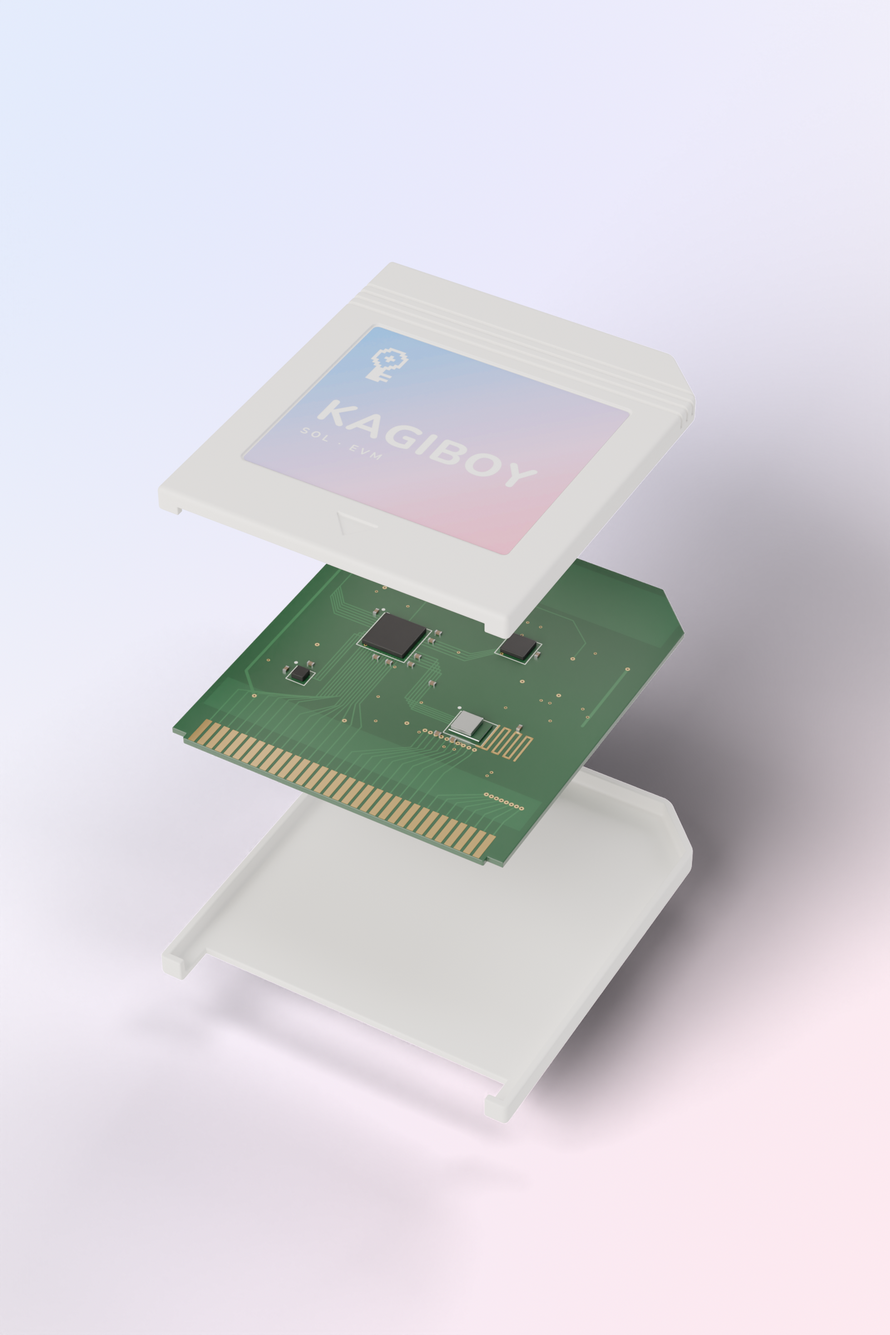
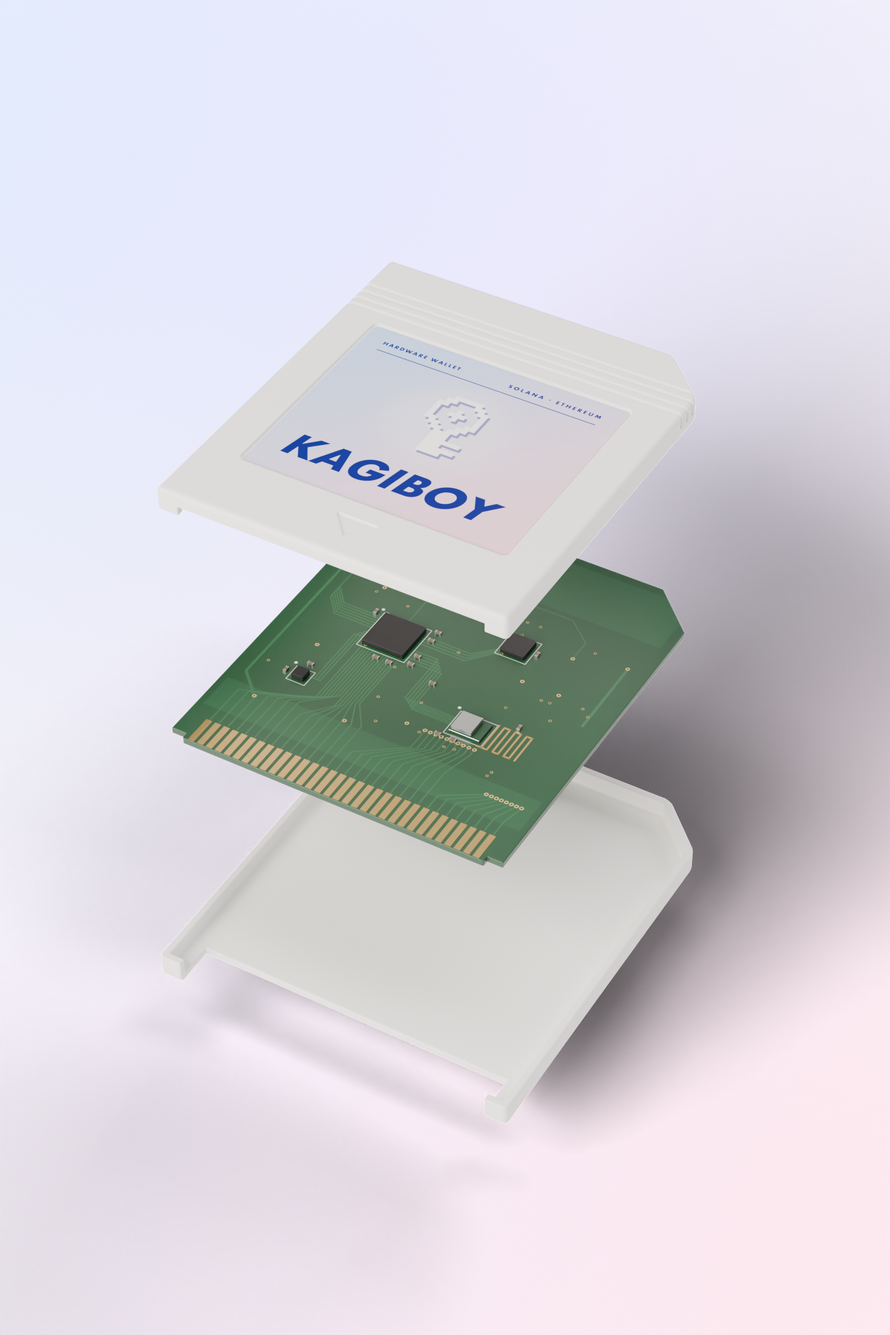
Fresh renders (prints, new label, soft LCD), product share card, A/B keys, no stale-image flash
Renders: render.py maps screen captures to the site's soft LCD palette,
gentler label grading. Landing/demo fade the live model in; the render
shows only as a fallback. OG card: assets/og (product + wordmark), short
non-repeating title/description. Demo: A and B keys work alongside X/Z.

Claude-Session: https://claude.ai/code/session_01K3DS9Lp5DvbMPN1T6z91y9

Changed region(s): [[0.3125, 0.25, 0.5625, 0.4062]]

diff --git a/assets/og/og.html b/assets/og/og.html
@@ -1,0 +1,38 @@
+<!doctype html>
+<html>
+<head>
+<meta charset="utf-8" />
+<link rel="preconnect" href="https://fonts.googleapis.com" />
+<link href="https://fonts.googleapis.com/css2?family=Funnel+Display:wght@500;650&family=Funnel+Sans:wght@400;500&display=block" rel="stylesheet" />
+<style>
+  html, body { margin: 0; }
+  .card {
+    position: relative; width: 1200px; height: 630px; overflow: hidden;
+    background:
+      radial-gradient(520px 420px at 14% 18%, rgba(207, 226, 255, 0.95), transparent 70%),
+      radial-gradient(560px 460px at 92% 96%, rgba(255, 220, 232, 0.95), transparent 70%),
+      radial-gradient(380px 300px at 58% 50%, rgba(230, 224, 255, 0.55), transparent 72%),
+      #fbfaf8;
+    font-family: "Funnel Sans", system-ui, sans-serif; color: #1f2330;
+  }
+  .copy { position: absolute; left: 88px; top: 50%; transform: translateY(-50%); }
+  .word { font: 650 92px/0.95 "Funnel Display", sans-serif; letter-spacing: -0.045em; margin: 0; }
+  .line { margin: 22px 0 0; font-size: 27px; color: #5a5f73; letter-spacing: -0.01em; }
+  .chains { margin: 34px 0 0; font-size: 15px; letter-spacing: 0.22em; color: #8a8fa3; text-transform: uppercase; }
+  /* the studio render (backdrop baked in), its left edge feathered into the card */
+  .device { position: absolute; left: 400px; top: 18px; width: 1040px; height: auto;
+    -webkit-mask-image: linear-gradient(90deg, transparent 0, #000 22%); mask-image: linear-gradient(90deg, transparent 0, #000 22%); }
+  .copy { z-index: 1; }
+</style>
+</head>
+<body>
+  <div class="card">
+    <div class="copy">
+      <p class="word">kagiboy</p>
+      <p class="line">Your keys, in a cartridge.</p>
+      <p class="chains">Solana &nbsp;·&nbsp; Ethereum</p>
+    </div>
+    <img class="device" src="device.png" />
+  </div>
+</body>
+</html>

diff --git a/web/index.html b/web/index.html
@@ -4,9 +4,9 @@
     <meta charset="UTF-8" />
     <meta name="viewport" content="width=device-width, initial-scale=1.0, viewport-fit=cover" />
     <title>kagiboy</title>
-    <meta name="description" content="A hardware wallet for the original Game Boy. Solana and EVM." />
-    <meta property="og:title" content="kagiboy: your crypto keys, in a Game Boy cartridge" />
-    <meta property="og:description" content="A secure chip in the cartridge holds your keys. Approve every Solana and EVM transaction on the Game Boy's own screen." />
+    <meta name="description" content="The hardware wallet that plugs into a Game Boy. Solana and Ethereum." />
+    <meta property="og:title" content="kagiboy" />
+    <meta property="og:description" content="The hardware wallet that plugs into a Game Boy." />
     <meta property="og:image" content="https://kagiboy.vercel.app/og.png" />
     <meta property="og:url" content="https://kagiboy.vercel.app/" />
     <meta name="twitter:card" content="summary_large_image" />

diff --git a/web/src/demo/GameBoyShell.tsx b/web/src/demo/GameBoyShell.tsx
@@ -10,8 +10,12 @@ const KEYBOARD: Record<string, Key> = {
   ArrowRight: "RIGHT",
   x: "A",
   X: "A",
+  a: "A",
+  A: "A",
   z: "B",
   Z: "B",
+  b: "B",
+  B: "B",
   Enter: "START",
   Shift: "SELECT",
   Backspace: "SELECT",
@@ -245,7 +249,7 @@ export function GameBoyShell({ active = true }: { active?: boolean }) {
         )}
       </div>
       <p className="keys">
-        Keys: arrows · <kbd>X</kbd> A · <kbd>Z</kbd> B · <kbd>Enter</kbd> Start · <kbd>Shift</kbd> Select
+        Keys: arrows · <kbd>A</kbd>/<kbd>X</kbd> A · <kbd>B</kbd>/<kbd>Z</kbd> B · <kbd>Enter</kbd> Start · <kbd>Shift</kbd> Select
       </p>
     </div>
   );

diff --git a/web/src/demo/demo.css b/web/src/demo/demo.css
@@ -97,12 +97,30 @@
   height: 100%;
 }
 
+/* the live model fades in; the render behind it shows only if the model is slow or WebGL never comes up */
 .device-still {
   object-fit: contain;
-  transition: opacity 0.6s var(--kb-ease);
+  opacity: 0;
+  animation: device-still-in 0.6s var(--kb-ease) 2.5s forwards;
+}
+
+@keyframes device-still-in {
+  to {
+    opacity: 1;
+  }
+}
+
+.device-canvas {
+  opacity: 0;
+  transition: opacity 0.8s var(--kb-ease);
+}
+
+.device-stage.is-ready .device-canvas {
+  opacity: 1;
 }
 
 .device-stage.is-ready .device-still {
+  animation: none;
   opacity: 0;
 }
 

diff --git a/web/src/landing/landing.css b/web/src/landing/landing.css
@@ -34,15 +34,25 @@
   height: 100%;
 }
 
+/* the render is only a fallback for browsers without WebGL; the live model fades in instead,
+ * so a still that differs from it never flashes on load */
 .stage-still {
   object-fit: cover;
   object-position: 70% 50%;
-  opacity: 1;
-  transition: opacity 0.8s var(--kb-ease);
+  opacity: 0;
 }
 
-.stage.is-ready .stage-still {
+.stage.no-webgl .stage-still {
+  opacity: 1;
+}
+
+.stage-canvas {
   opacity: 0;
+  transition: opacity 0.9s var(--kb-ease);
+}
+
+.stage.is-ready .stage-canvas {
+  opacity: 1;
 }
 
 .stage.no-webgl .stage-canvas {

diff --git a/assets/3d/render.py b/assets/3d/render.py
@@ -206,14 +206,31 @@ def render_tweaks():
     nt.links.new(mix.outputs[2], b.inputs["Base Color"])
 
 
-LABEL_TONE = float(os.environ.get("KB_LABEL", "0.84"))
-LABEL_SAT = float(os.environ.get("KB_LABEL_SAT", "2.3"))
+LABEL_TONE = float(os.environ.get("KB_LABEL", "0.9"))
+LABEL_SAT = float(os.environ.get("KB_LABEL_SAT", "1.35"))
+
+
+# the site draws the LCD in a softer palette than the DMG greens the screen captures use;
+# renders match the site (web/src/emu/gameboy.ts SOFT_LCD)
+SOFT = [(228, 235, 216), (164, 182, 150), (82, 102, 88), (30, 40, 38)]
+DMG = [(155, 188, 15), (139, 172, 15), (48, 98, 48), (15, 56, 15)]
+
+
+def soft_screen(name):
+    out = os.path.join(RAW, "soft-" + name)
+    code = (
+        "from PIL import Image;im=Image.open(%r).convert('RGB');"
+        "m={%s};im.putdata([m.get(p,p) for p in im.get_flattened_data()]);im.save(%r)"
+        % (os.path.join(SCREENS, name), ",".join("%r:%r" % (d, s) for d, s in zip(DMG, SOFT)), out)
+    )
+    subprocess.run([PY, "-c", code], check=True)
+    return out
 
 
 def set_screen(name):
     m = bpy.data.materials["Screen"]
     n = m.node_tree.nodes["BaseImage"]
-    n.image = bpy.data.images.load(os.path.join(SCREENS, name), check_existing=True)
+    n.image = bpy.data.images.load(soft_screen(name), check_existing=True)
     n.interpolation = "Closest"
 
 
